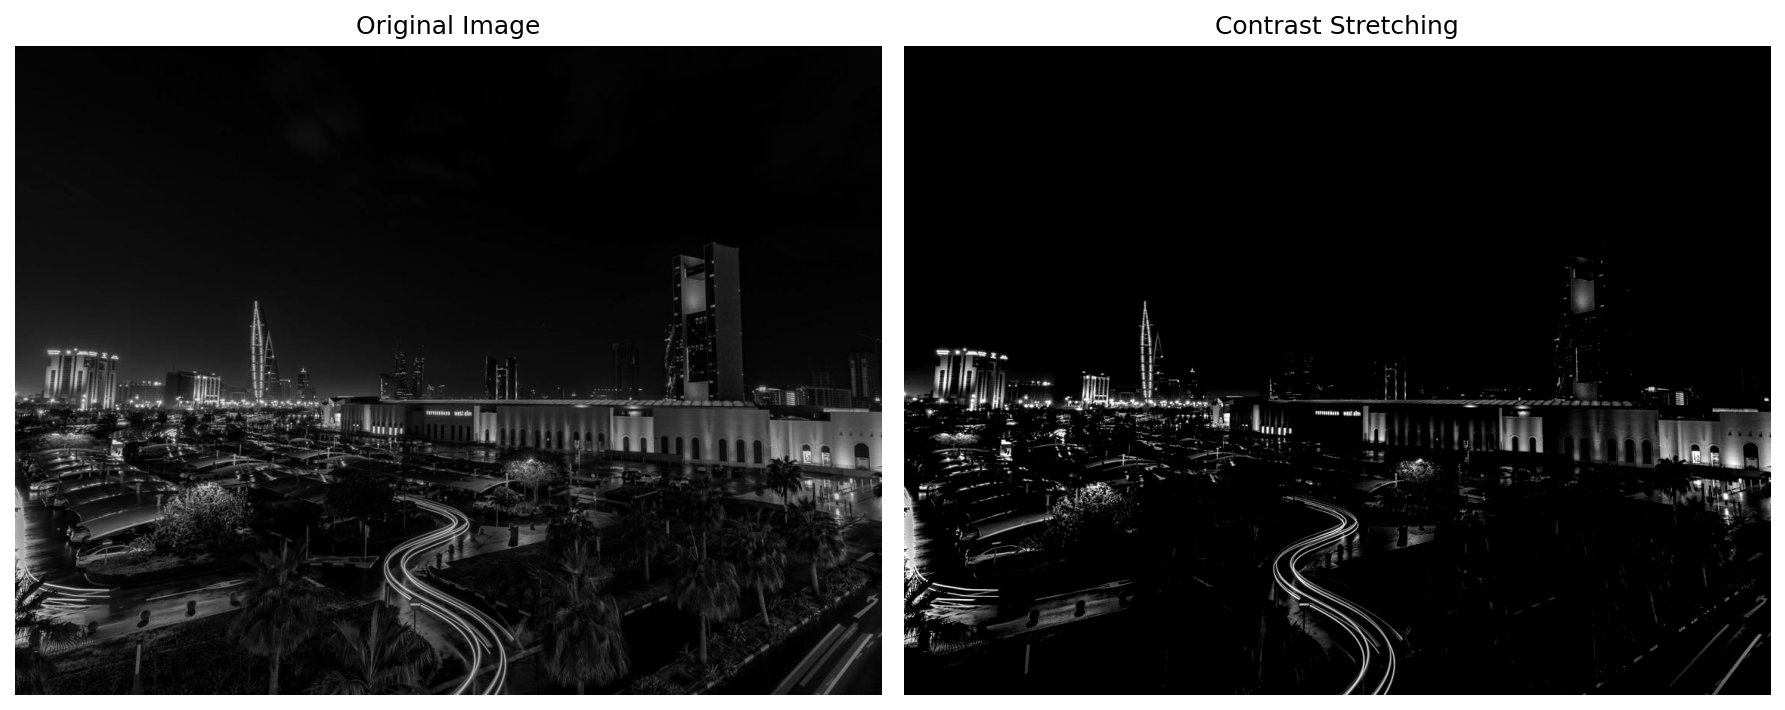
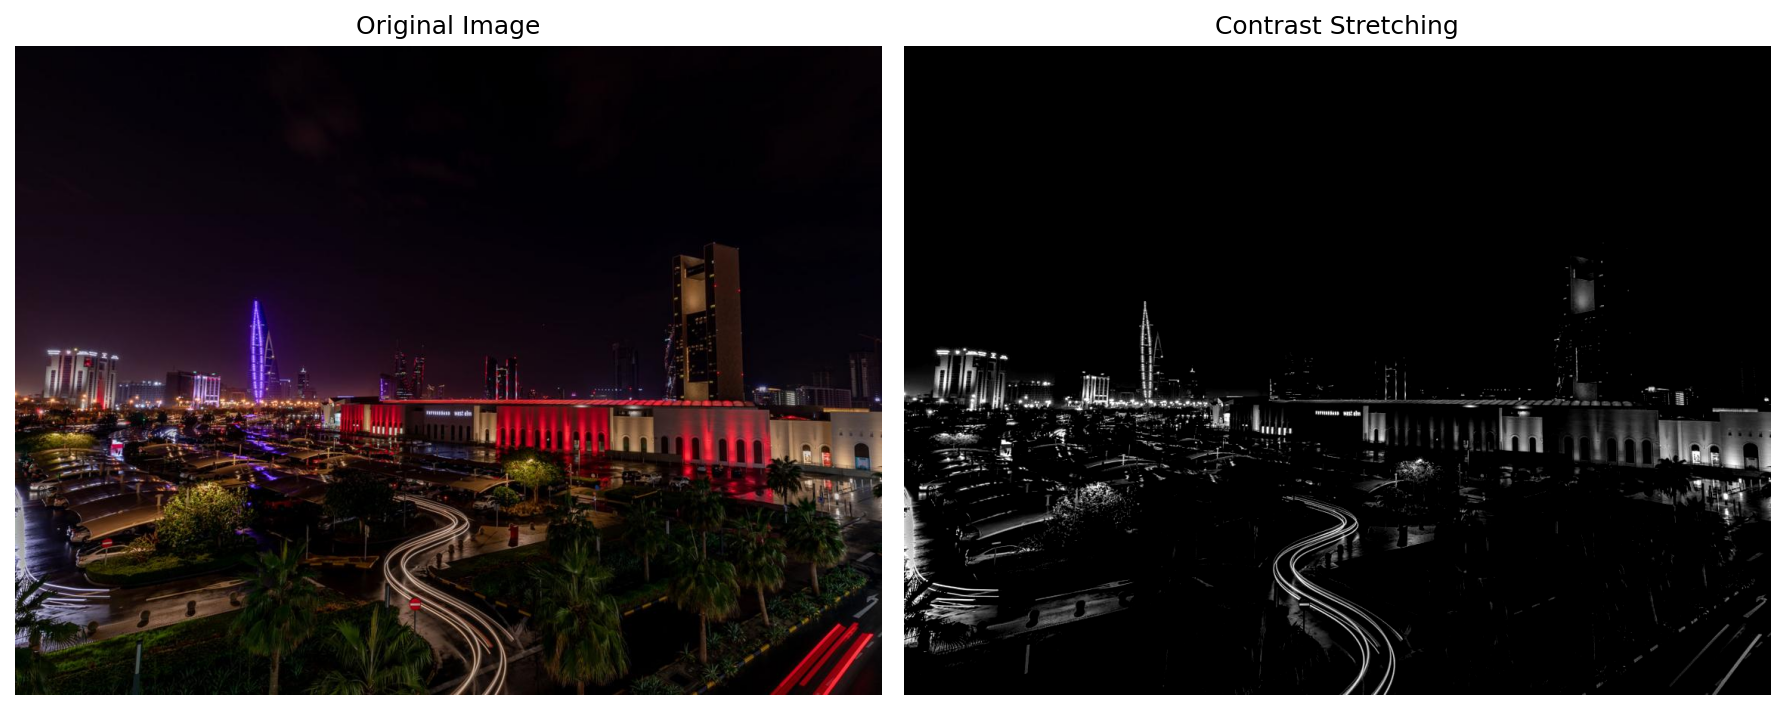
added

diff --git a/src/main.py b/src/main.py
@@ -80,51 +80,54 @@ def main():
     for filename, image in images:
         print(f"\nProcessing {filename}...")
         
-        # Convert to grayscale
+        # Keep original for display
+        original_display = image.copy()
+        
+        # Convert to grayscale for processing
         gray = loader.convert_to_grayscale(image)
         
         # 1. Image Negative
         negative = processor.image_negative(gray)
         output_mgr.save_processed_image(negative, 'negative', filename)
         results_path = output_mgr.results_path / f'{Path(filename).stem}_negative.png'
-        visualizer.plot_comparison(gray, negative, 'Image Negative', 'negative', str(results_path))
+        visualizer.plot_comparison(original_display, negative, 'Image Negative', 'negative', str(results_path))
         
         # 2. Gamma Correction
         gamma = processor.gamma_correction(gray, gamma=0.5)
         output_mgr.save_processed_image(gamma, 'gamma', filename)
         results_path = output_mgr.results_path / f'{Path(filename).stem}_gamma.png'
-        visualizer.plot_comparison(gray, gamma, 'Gamma Correction (γ=0.5)', 'gamma', str(results_path))
+        visualizer.plot_comparison(original_display, gamma, 'Gamma Correction (γ=0.5)', 'gamma', str(results_path))
         
         # 3. Log Transformation
         log_trans = processor.log_transformation(gray)
         output_mgr.save_processed_image(log_trans, 'log', filename)
         results_path = output_mgr.results_path / f'{Path(filename).stem}_log.png'
-        visualizer.plot_comparison(gray, log_trans, 'Log Transformation', 'log', str(results_path))
+        visualizer.plot_comparison(original_display, log_trans, 'Log Transformation', 'log', str(results_path))
         
         # 4. Contrast Stretching
         contrast = processor.contrast_stretching(gray, 50, 0, 200, 255)
         output_mgr.save_processed_image(contrast, 'contrast', filename)
         results_path = output_mgr.results_path / f'{Path(filename).stem}_contrast.png'
-        visualizer.plot_comparison(gray, contrast, 'Contrast Stretching', 'contrast', str(results_path))
+        visualizer.plot_comparison(original_display, contrast, 'Contrast Stretching', 'contrast', str(results_path))
         
         # 5. Histogram Equalization
         hist_eq = processor.histogram_equalization(gray)
         output_mgr.save_processed_image(hist_eq, 'histogram', filename)
         results_path = output_mgr.results_path / f'{Path(filename).stem}_histogram.png'
-        visualizer.plot_comparison(gray, hist_eq, 'Histogram Equalization', 'histogram', str(results_path))
+        visualizer.plot_comparison(original_display, hist_eq, 'Histogram Equalization', 'histogram', str(results_path))
         
         # 6. Intensity Level Slicing
         intensity_slice = processor.intensity_level_slicing(gray, 100, 200)
         output_mgr.save_processed_image(intensity_slice, 'intensity', filename)
         results_path = output_mgr.results_path / f'{Path(filename).stem}_intensity.png'
-        visualizer.plot_comparison(gray, intensity_slice, 'Intensity Level Slicing', 'intensity', str(results_path))
+        visualizer.plot_comparison(original_display, intensity_slice, 'Intensity Level Slicing', 'intensity', str(results_path))
         
         # 7. Bit Plane Slicing
         bit_plane = processor.bit_plane_slicing(gray, 7)
         output_mgr.save_processed_image(bit_plane, 'bitplane', filename)
         all_planes = processor.extract_all_bit_planes(gray)
         results_path = output_mgr.results_path / f'{Path(filename).stem}_bitplanes.png'
-        visualizer.plot_bit_planes(gray, all_planes, str(results_path))
+        visualizer.plot_bit_planes(original_display, all_planes, str(results_path))
         
         print(f"✓ Completed processing {filename}")
     

diff --git a/README.md b/README.md
@@ -20,7 +20,7 @@ pip install -r requirements.txt
 
 ## Usage
 
-1. Place your test images in the `images/input/` folder
+1. Place your test images in the `src/images/input/` folder
 2. Run the main script:
 
 ```bash
@@ -29,17 +29,17 @@ python main.py
 ```
 
 3. Results will be saved in:
-   - `images/output/` - Processed images organized by method
-   - `images/results/` - Comparison visualizations for PPT
+   - `src/images/output/` - Processed images organized by method
+   - `src/images/results/` - Comparison visualizations for PPT
 
 ## Folder Structure
 
 ```
-├── images/
-│   ├── input/          # Place your test images here
-│   ├── output/         # Processed images
-│   └── results/        # Visualizations for PPT
 ├── src/
+│   ├── images/
+│   │   ├── input/          # Place your test images here
+│   │   ├── output/         # Processed images
+│   │   └── results/        # Visualizations for PPT
 │   ├── image_loader.py
 │   ├── image_processor.py
 │   ├── visualizer.py
